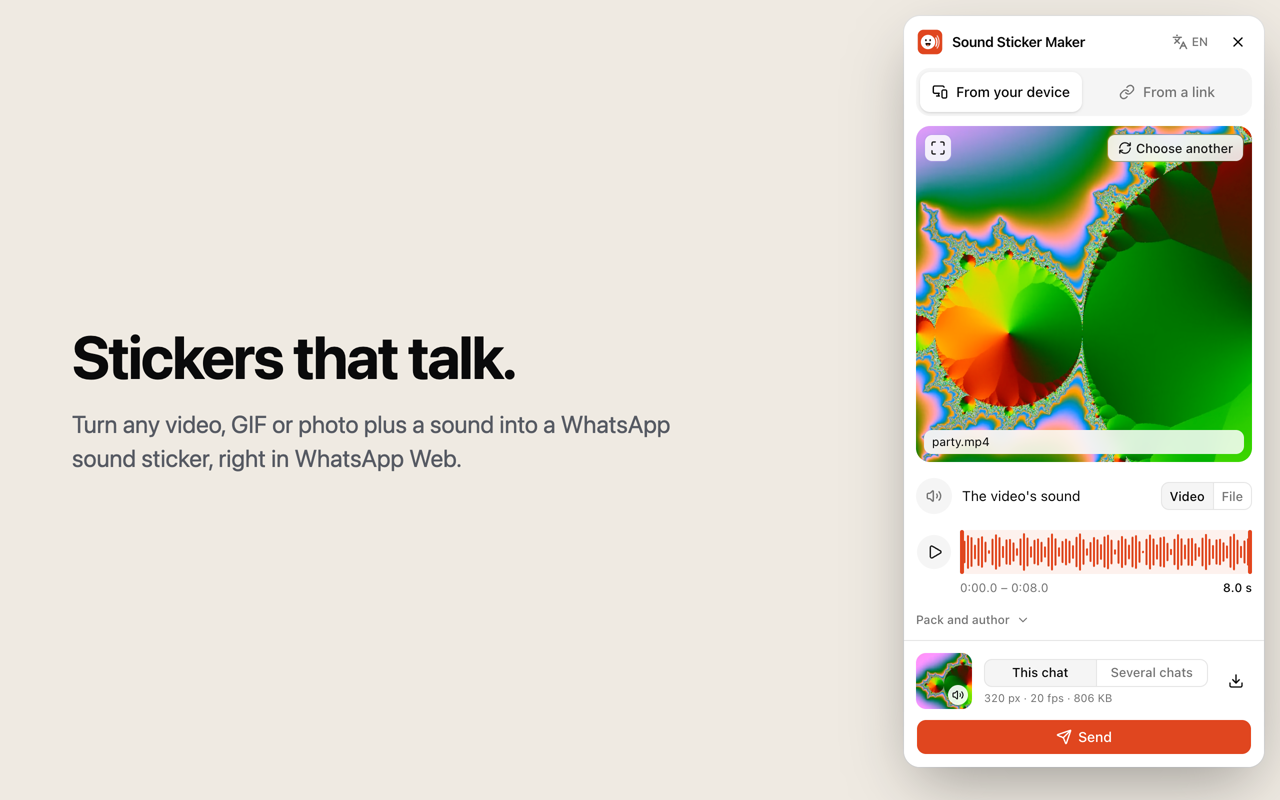
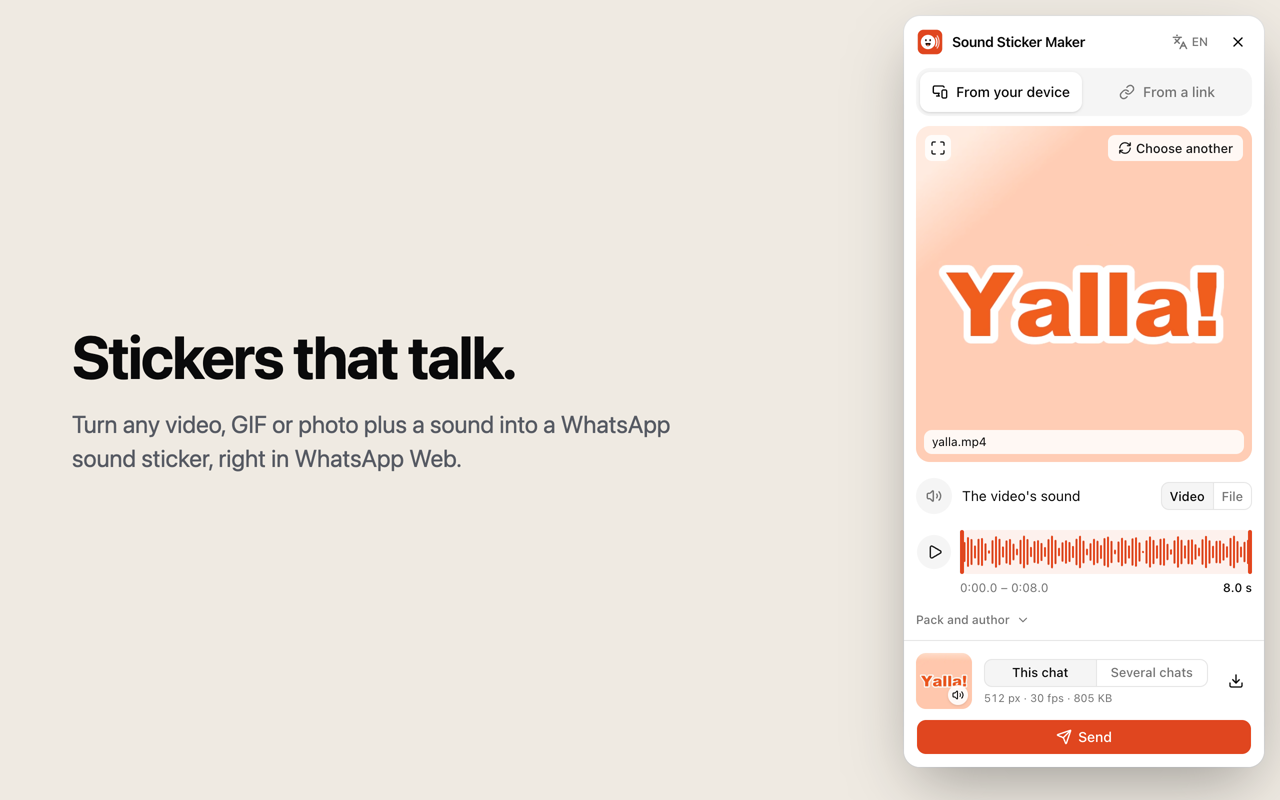
feat(site): WhatsApp-style chat, the real panel and calmer hero buttons
The hero shows the real extension panel captured from the build, next to
a chat in WhatsApp Web's colours. Download and Try it online sit side by
side; the AI install steps live on the install page. Site tests run on
Vitest so CI's Node can run them.

Changed region(s): [[0.7188, 0.1562, 1.0, 0.5938], [0.7188, 0.8125, 0.7812, 0.9062]]

diff --git a/apps/site/src/styles/drawn.css b/apps/site/src/styles/drawn.css
@@ -7,12 +7,12 @@
   --pn-soft: #f4f4f5;
   --pn-primary: #18181b;
   --pn-primary-fg: #fafafa;
-  --chat-bg: #fbf8f6;
-  --chat-head: #ffffff;
+  --chat-bg: #efeae2;
+  --chat-head: #f0f2f5;
   --chat-in: #ffffff;
-  --chat-out: #f1e6e0;
-  --chat-ink: #18181b;
-  --chat-muted: #7a6f6a;
+  --chat-out: #d9fdd3;
+  --chat-ink: #111b21;
+  --chat-muted: #667781;
   --stk-ink: #e0461f;
   --lift: 0 24px 50px -24px rgba(60, 20, 8, 0.45);
 }
@@ -24,12 +24,12 @@
   --pn-soft: #1a1a1d;
   --pn-primary: #fafafa;
   --pn-primary-fg: #18181b;
-  --chat-bg: #121113;
-  --chat-head: #1a191b;
-  --chat-in: #1f1e21;
-  --chat-out: #2c2421;
-  --chat-ink: #f4f4f5;
-  --chat-muted: #a39a96;
+  --chat-bg: #0b141a;
+  --chat-head: #202c33;
+  --chat-in: #202c33;
+  --chat-out: #005c4b;
+  --chat-ink: #e9edef;
+  --chat-muted: #8696a0;
   --lift: 0 24px 50px -24px rgba(0, 0, 0, 0.8);
 }
 @media (prefers-color-scheme: dark) {
@@ -41,12 +41,12 @@
     --pn-soft: #1a1a1d;
     --pn-primary: #fafafa;
     --pn-primary-fg: #18181b;
-    --chat-bg: #121113;
-    --chat-head: #1a191b;
-    --chat-in: #1f1e21;
-    --chat-out: #2c2421;
-    --chat-ink: #f4f4f5;
-    --chat-muted: #a39a96;
+    --chat-bg: #0b141a;
+    --chat-head: #202c33;
+    --chat-in: #202c33;
+    --chat-out: #005c4b;
+    --chat-ink: #e9edef;
+    --chat-muted: #8696a0;
     --lift: 0 24px 50px -24px rgba(0, 0, 0, 0.8);
   }
 }
@@ -164,7 +164,7 @@
   }
 }
 
-/* A plain chat window: no app's colours or logo */
+/* A chat window in WhatsApp Web's colours, without its logo */
 .chat {
   display: flex;
   flex-direction: column;
@@ -210,6 +210,8 @@
 }
 .chat-body {
   flex: 1;
+  background-image: radial-gradient(color-mix(in srgb, var(--chat-muted) 14%, transparent) 1.2px, transparent 1.6px);
+  background-size: 18px 18px;
   display: flex;
   flex-direction: column;
   gap: 8px;
@@ -237,6 +239,12 @@
   background: var(--chat-out);
   border-end-end-radius: 4px;
 }
+.tick {
+  display: inline-block;
+  margin-inline-start: 3px;
+  vertical-align: -2px;
+  color: #53bdeb;
+}
 .chat time {
   margin-inline-start: 10px;
   font-size: 11px;
@@ -252,6 +260,7 @@
   margin-top: 6px;
 }
 .chat-input {
+  background: var(--chat-head);
   display: flex;
   align-items: center;
   gap: 10px;
@@ -264,7 +273,7 @@
   align-items: center;
   padding-inline: 16px;
   border-radius: 999px;
-  background: var(--chat-head);
+  background: var(--chat-in);
   color: var(--chat-muted);
   font-size: 13.5px;
   box-shadow: 0 0 0 0.5px color-mix(in srgb, var(--chat-muted) 30%, transparent);
@@ -275,8 +284,8 @@
   width: 38px;
   height: 38px;
   border-radius: 50%;
-  background: var(--chat-ink);
-  color: var(--chat-bg);
+  background: #00a884;
+  color: #ffffff;
 }
 .chat-input i svg {
   transform: translateX(-1px);
@@ -771,4 +780,32 @@
 }
 .chat:dir(rtl) time {
   margin-inline: 0 10px;
+}
+
+/* The real extension panel, captured from the build (light, dark, English or Arabic) */
+.shot {
+  display: block;
+  width: 100%;
+  height: auto;
+  border-radius: 16px;
+  box-shadow:
+    0 0 0 0.5px rgba(0, 0, 0, 0.14),
+    var(--lift);
+}
+.shot-dark {
+  display: none;
+}
+:root[data-theme='dark'] .shot-light {
+  display: none;
+}
+:root[data-theme='dark'] .shot-dark {
+  display: block;
+}
+@media (prefers-color-scheme: dark) {
+  :root:not([data-theme='light']) .shot-light {
+    display: none;
+  }
+  :root:not([data-theme='light']) .shot-dark {
+    display: block;
+  }
 }

diff --git a/apps/site/tests/helpers.test.ts b/apps/site/tests/helpers.test.ts
@@ -1,36 +1,35 @@
-import assert from 'node:assert/strict'
-import { test } from 'node:test'
-import { joinBase, swapLang } from '../src/lib/paths.ts'
-import { clampRange, formatSeconds } from '../src/lib/time.ts'
+import { expect, test } from 'vitest'
+import { joinBase, swapLang } from '../src/lib/paths'
+import { clampRange, formatSeconds } from '../src/lib/time'
 
 test('joinBase works at the root and under a folder', () => {
-  assert.equal(joinBase('/', 'maker/'), '/maker/')
-  assert.equal(joinBase('/sound-sticker-maker', 'maker/'), '/sound-sticker-maker/maker/')
-  assert.equal(joinBase('/sound-sticker-maker/', '/og.png'), '/sound-sticker-maker/og.png')
-  assert.equal(joinBase('/sound-sticker-maker'), '/sound-sticker-maker/')
+  expect(joinBase('/', 'maker/')).toBe('/maker/')
+  expect(joinBase('/sound-sticker-maker', 'maker/')).toBe('/sound-sticker-maker/maker/')
+  expect(joinBase('/sound-sticker-maker/', '/og.png')).toBe('/sound-sticker-maker/og.png')
+  expect(joinBase('/sound-sticker-maker')).toBe('/sound-sticker-maker/')
 })
 
 const LANGS = ['en', 'ar', 'es', 'hi']
 
 test('swapLang moves between languages, with English at the root', () => {
-  assert.equal(swapLang('maker/', 'ar', LANGS), 'ar/maker/')
-  assert.equal(swapLang('ar/maker/', 'en', LANGS), 'maker/')
-  assert.equal(swapLang('es/maker/', 'hi', LANGS), 'hi/maker/')
-  assert.equal(swapLang('', 'es', LANGS), 'es/')
-  assert.equal(swapLang('ar/', 'en', LANGS), '')
-  assert.equal(swapLang('/privacy/', 'ar', LANGS), 'ar/privacy/')
+  expect(swapLang('maker/', 'ar', LANGS)).toBe('ar/maker/')
+  expect(swapLang('ar/maker/', 'en', LANGS)).toBe('maker/')
+  expect(swapLang('es/maker/', 'hi', LANGS)).toBe('hi/maker/')
+  expect(swapLang('', 'es', LANGS)).toBe('es/')
+  expect(swapLang('ar/', 'en', LANGS)).toBe('')
+  expect(swapLang('/privacy/', 'ar', LANGS)).toBe('ar/privacy/')
 })
 
 test('formatSeconds rounds to one decimal', () => {
-  assert.equal(formatSeconds(4), '4.0')
-  assert.equal(formatSeconds(9.96), '10.0')
-  assert.equal(formatSeconds(-1), '0.0')
+  expect(formatSeconds(4)).toBe('4.0')
+  expect(formatSeconds(9.96)).toBe('10.0')
+  expect(formatSeconds(-1)).toBe('0.0')
 })
 
 test('clampRange keeps the part inside the sound and within the limits', () => {
-  assert.deepEqual(clampRange(0, 45, 60, 0.3, 30), { start: 0, end: 30 })
-  assert.deepEqual(clampRange(-2, 5, 60, 0.3, 30), { start: 0, end: 5 })
-  assert.deepEqual(clampRange(59.9, 60, 60, 0.3, 30), { start: 59.7, end: 60 })
-  assert.deepEqual(clampRange(2, 2, 10, 0.3, 30), { start: 2, end: 2.3 })
-  assert.deepEqual(clampRange(0, 1, 0.2, 0.3, 30), { start: 0, end: 0.2 })
+  expect(clampRange(0, 45, 60, 0.3, 30)).toEqual({ start: 0, end: 30 })
+  expect(clampRange(-2, 5, 60, 0.3, 30)).toEqual({ start: 0, end: 5 })
+  expect(clampRange(59.9, 60, 60, 0.3, 30)).toEqual({ start: 59.7, end: 60 })
+  expect(clampRange(2, 2, 10, 0.3, 30)).toEqual({ start: 2, end: 2.3 })
+  expect(clampRange(0, 1, 0.2, 0.3, 30)).toEqual({ start: 0, end: 0.2 })
 })

diff --git a/apps/site/src/styles/home.css b/apps/site/src/styles/home.css
@@ -70,7 +70,7 @@ main > section:not(.hero) {
   margin-top: -64px;
 }
 .hero-sky {
-  padding: 132px var(--gutter) clamp(40px, 6vw, 88px);
+  padding: 156px var(--gutter) clamp(40px, 6vw, 88px);
 }
 .hero-head {
   display: flex;
@@ -380,4 +380,28 @@ main > section:not(.hero) {
 }
 .hero-try {
   font-size: 14.5px;
+}
+
+.hero-btns {
+  display: flex;
+  flex-wrap: wrap;
+  justify-content: center;
+  gap: 12px;
+}
+.hero-btns .btn {
+  height: 52px;
+  padding: 0 26px;
+  font-size: 17px;
+}
+.btn-soft {
+  background: color-mix(in oklab, var(--bg) 72%, transparent);
+  color: var(--ink);
+  backdrop-filter: blur(12px);
+  box-shadow: 0 0 0 0.5px rgba(128, 128, 128, 0.35);
+}
+.btn-soft:hover {
+  background: var(--bg);
+}
+.close-sky .hero-btns {
+  margin-top: 8px;
 }

diff --git a/apps/site/vitest.config.ts b/apps/site/vitest.config.ts
@@ -1,0 +1,3 @@
+import { defineConfig } from 'vitest/config'
+
+export default defineConfig({ test: { environment: 'node', include: ['tests/**/*.test.ts'] } })
